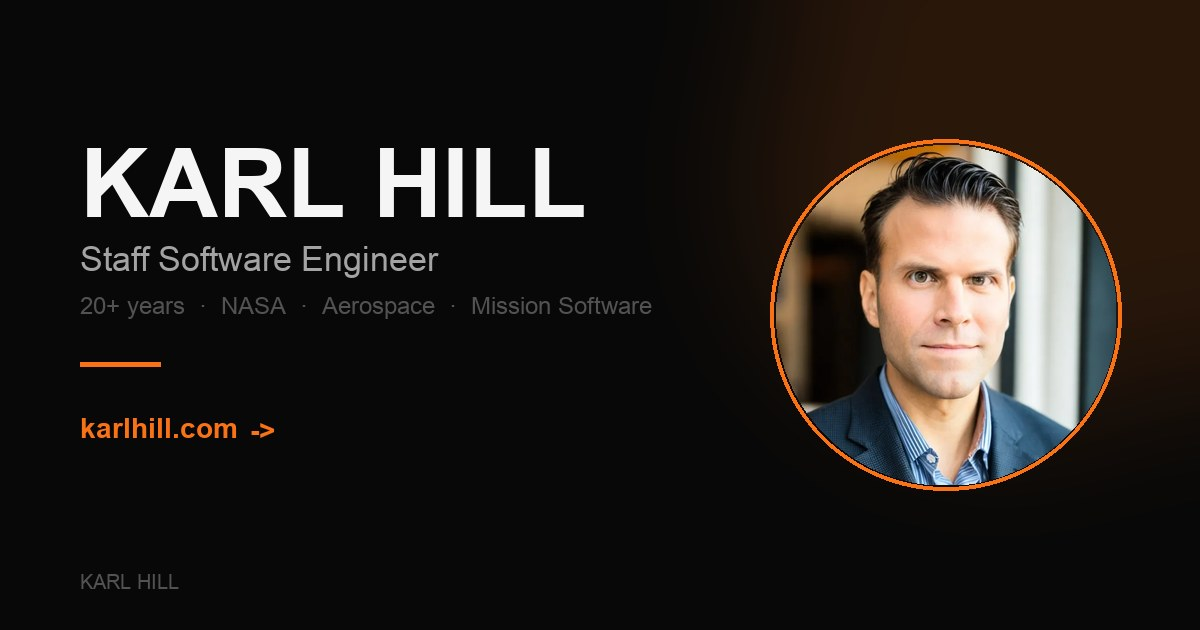
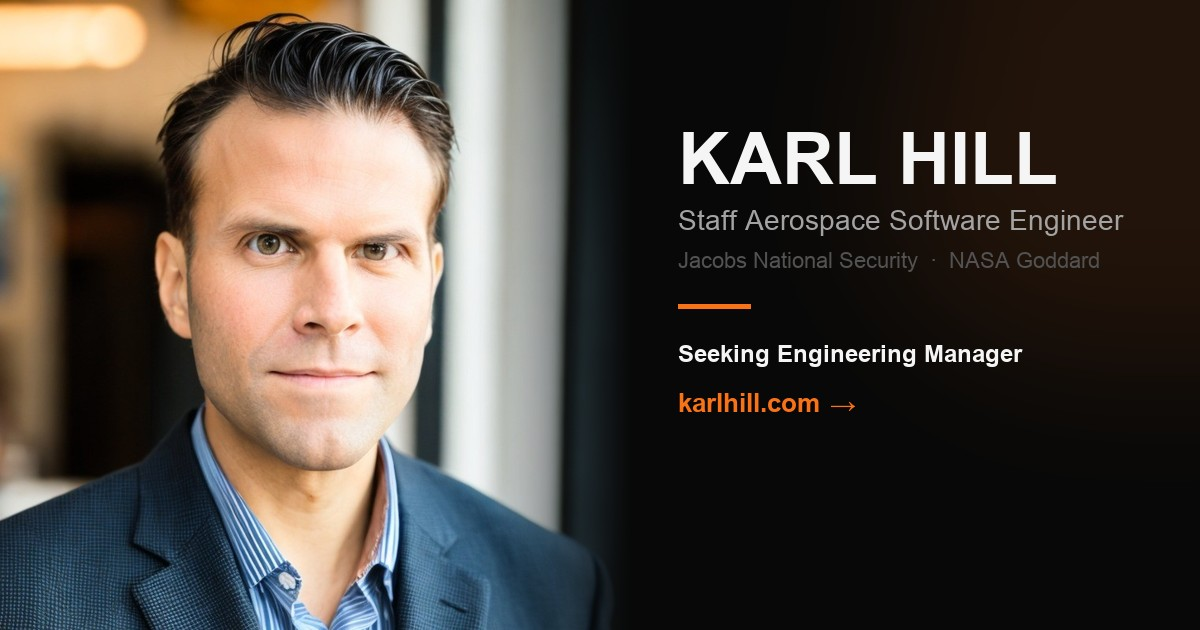
Update site content and image generation for clarity and SEO optimization
- Revised README.md to enhance clarity on name disambiguation and configuration details.
- Updated SEO configuration in `seo.php` to improve title and description for better search visibility.
- Enhanced image generation script to optimize OG images with improved cropping and layout.
- Updated tests to reflect changes in SEO content and ensure proper functionality.

diff --git a/scripts/generate-og-images.py b/scripts/generate-og-images.py
@@ -57,52 +57,81 @@ def font(size: int, bold: bool = False) -> ImageFont.FreeTypeFont:
     )
 
 
+def cover_crop(src: Image.Image, tw: int, th: int) -> Image.Image:
+    """Scale+crop to exactly tw×th (object-fit: cover), bias slightly toward the face."""
+    w, h = src.size
+    scale = max(tw / w, th / h)
+    nw, nh = int(w * scale + 0.5), int(h * scale + 0.5)
+    resized = src.resize((nw, nh), Image.LANCZOS)
+    left = max(0, (nw - tw) // 2)
+    # Bias up so eyes stay in frame when the source is a tight headshot.
+    top = max(0, (nh - th) // 2 - th // 20)
+    top = min(top, nh - th)
+    return resized.crop((left, top, left + tw, top + th))
+
+
 def generate_home() -> Path:
-    profile_path = PUBLIC / "webp" / "profile.webp"
+    """Homepage OG card optimized for Google’s square SERP thumbnail.
+
+    Layout: full-bleed portrait on the left 630×630 (what Google crops),
+    hire copy on the right. The old design put a small circle on the right
+    of a black field — center/right crops showed a letter fragment and a
+    tiny face.
+    """
+    jpg = PUBLIC / "profile.jpg"
+    webp = PUBLIC / "webp" / "profile.webp"
+    profile_path = jpg if jpg.exists() else webp
     out_path = PUBLIC / "og-home.jpg"
 
+    face_w = H  # 630 — square SERP thumb is the left panel
+    text_x = face_w + 48
+
     img = Image.new("RGB", (W, H), BG)
+    face = cover_crop(Image.open(profile_path).convert("RGB"), face_w, H)
+    img.paste(face, (0, 0))
+
+    # Soft seam: photo → dark panel so LinkedIn/Twitter still read as one card.
+    seam = Image.new("RGBA", (W, H), (0, 0, 0, 0))
+    sdraw = ImageDraw.Draw(seam)
+    blend = 160
+    for i in range(blend):
+        alpha = int(255 * (i / blend) ** 1.35)
+        x = face_w - blend + i
+        sdraw.line([(x, 0), (x, H)], fill=(*BG, alpha))
+    sdraw.rectangle((face_w, 0, W, H), fill=(*BG, 255))
+    img = Image.alpha_composite(img.convert("RGBA"), seam).convert("RGB")
     draw = ImageDraw.Draw(img)
 
+    # Quiet brand glow behind the copy (not over the face).
     glow = Image.new("RGBA", (W, H), (0, 0, 0, 0))
     gdraw = ImageDraw.Draw(glow)
-    gdraw.ellipse((700, -120, 1300, 480), fill=(*ORANGE, 35))
-    glow = glow.filter(ImageFilter.GaussianBlur(80))
-    img.paste(glow, (0, 0), glow)
+    gdraw.ellipse((820, -80, 1380, 420), fill=(*ORANGE, 28))
+    glow = glow.filter(ImageFilter.GaussianBlur(90))
+    img = Image.alpha_composite(img.convert("RGBA"), glow).convert("RGB")
+    draw = ImageDraw.Draw(img)
 
-    f_title = font(96, bold=True)
-    f_sub = font(34)
-    f_meta = font(24)
-    f_cta = font(28, bold=True)
-    f_site = font(20)
+    f_name = font(72, bold=True)
+    f_role = font(28)
+    f_meta = font(22)
+    f_ask = font(24, bold=True)
+    f_cta = font(26, bold=True)
 
-    size = 340
-    profile = Image.open(profile_path).convert("RGBA").resize((size, size), Image.LANCZOS)
-    mask = Image.new("L", (size, size), 0)
-    ImageDraw.Draw(mask).ellipse((0, 0, size, size), fill=255)
-    profile.putalpha(mask)
-
-    ring = Image.new("RGBA", (size + 12, size + 12), (0, 0, 0, 0))
-    rd = ImageDraw.Draw(ring)
-    rd.ellipse((0, 0, size + 11, size + 11), outline=ORANGE + (255,), width=4)
-    ring.paste(profile, (6, 6), profile)
-    img.paste(ring, (W - size - 90, (H - size - 12) // 2), ring)
-
-    x, y = 80, 130
-    draw.text((x, y), "KARL HILL", fill=WHITE, font=f_title)
-    y += 110
-    draw.text((x, y), "Staff Software Engineer", fill=GRAY, font=f_sub)
-    y += 52
-    draw.text((x, y), "20+ years  ·  NASA  ·  Aerospace  ·  Mission Software", fill=DARK_GRAY, font=f_meta)
-    y += 70
-    draw.rectangle((x, y, x + 80, y + 4), fill=ORANGE)
-    y += 50
+    x, y = text_x, 118
+    draw.text((x, y), "KARL HILL", fill=WHITE, font=f_name)
+    y += 86
+    draw.text((x, y), "Staff Aerospace Software Engineer", fill=GRAY, font=f_role)
+    y += 44
+    draw.text((x, y), "Jacobs National Security  ·  NASA Goddard", fill=DARK_GRAY, font=f_meta)
+    y += 56
+    draw.rectangle((x, y, x + 72, y + 4), fill=ORANGE)
+    y += 36
+    draw.text((x, y), "Seeking Engineering Manager", fill=WHITE, font=f_ask)
+    y += 48
     draw.text((x, y), "karlhill.com", fill=ORANGE, font=f_cta)
     tw = draw.textlength("karlhill.com", font=f_cta)
-    draw.text((x + tw + 12, y + 2), "->", fill=ORANGE, font=f_cta)
-    draw.text((x, H - 60), "KARL HILL", fill=DARK_GRAY, font=f_site)
+    draw.text((x + tw + 10, y + 1), "→", fill=ORANGE, font=f_cta)
 
-    img.save(out_path, "JPEG", quality=88, optimize=True)
+    img.save(out_path, "JPEG", quality=90, optimize=True)
     return out_path
 
 

diff --git a/config/site/seo.php b/config/site/seo.php
@@ -2,9 +2,10 @@
 
 return [
     'home' => [
-        'title' => 'Karl Hill — Staff Aerospace Software Engineer · NASA · Jacobs',
-        'description' => 'Karl M. Hill — Staff Aerospace Software Engineer at Jacobs National Security in Washington, DC; formerly NASA Goddard. Seeking an Engineering Manager role building on team execution, engineer development, and cross-team delivery. Not the novelist or musician of the same name.',
-        'og_description' => 'Staff Aerospace Software Engineer @ Jacobs National Security · ex-NASA Goddard · Washington, DC. Seeking Engineering Manager — formal people management as the next expansion of scope.',
+        // Keep under ~55–60 chars so Jacobs survives Google’s title truncation.
+        'title' => 'Karl Hill — Staff Aerospace Software Engineer · Jacobs',
+        'description' => 'Staff Aerospace Software Engineer at Jacobs National Security in Washington, DC · formerly NASA Goddard. Seeking an Engineering Manager role building on team execution and engineer development.',
+        'og_description' => 'Staff Aerospace Software Engineer @ Jacobs National Security · ex-NASA Goddard · Washington, DC. Seeking Engineering Manager.',
     ],
     'blog_index' => [
         'title' => 'Writing — Karl Hill',

diff --git a/tests/Feature/HomeStructuredDataTest.php b/tests/Feature/HomeStructuredDataTest.php
@@ -42,8 +42,8 @@ it('homepage html includes preferred-name title and json-ld', function () {
     $response = $this->get('/');
 
     $response->assertOk();
-    $response->assertSee('<title>Karl Hill — Staff Aerospace Software Engineer · NASA · Jacobs</title>', escape: false);
-    $response->assertSee('Karl M. Hill — Staff Aerospace Software Engineer at Jacobs', escape: false);
+    $response->assertSee('<title>Karl Hill — Staff Aerospace Software Engineer · Jacobs</title>', escape: false);
+    $response->assertSee('Staff Aerospace Software Engineer at Jacobs National Security', escape: false);
     $response->assertSee('"@type": "WebSite"', escape: false);
     $response->assertSee('"@type": "Person"', escape: false);
     $response->assertSee('"@type": "ProfilePage"', escape: false);

diff --git a/app/Console/Commands/GenerateOgImages.php b/app/Console/Commands/GenerateOgImages.php
@@ -121,6 +121,13 @@ class GenerateOgImages extends Command
      */
     protected function runProcess(array $command): void
     {
+        if (($command[0] ?? null) === 'python3') {
+            $venvPython = base_path('.venv/bin/python3');
+            if (is_file($venvPython)) {
+                $command[0] = $venvPython;
+            }
+        }
+
         $process = new Process($command, base_path());
         $process->setTimeout(120);
         $process->run(function (string $type, string $buffer): void {

diff --git a/README.md b/README.md
@@ -72,16 +72,9 @@ Domain copy lives in `config/site/*.php` (hero, person, experience, projects, no
 
 Hire bio is canonical in `config/site/person.php` (`bio`). The hire ask is `person.availability` — used by the homepage hero and kit “Open to” (EM transition from current Staff leadership scope). Secondary IC fit is `availability_note` on `/kit` only. Do not restate the ask on About, kit highlights, or `/now` focus cards.
 
-### Search Console and name disambiguation
+### Name disambiguation
 
-Google associates bare “Karl Hill” with a Scottish novelist (and Discogs/Wikipedia know a musician). This site’s Person JSON-LD already sets `sameAs` (LinkedIn, GitHub, ORCID, Scholar, Discogs, Wikipedia musician) plus `disambiguatingDescription`. Finish entity ownership outside the repo:
-
-1. [Search Console](https://search.google.com/search-console) → Domain property `karlhill.com` (DNS TXT) **or** URL-prefix + `GOOGLE_SITE_VERIFICATION` in `.env` (meta tag is already wired in `layouts/site.blade.php`).
-2. Inspect `https://karlhill.com/` → **Test live URL** → **Request indexing**. Also request `/work/jacobs-mission-software` and `/kit`.
-3. Set **Website** to `https://karlhill.com` on LinkedIn, GitHub, ORCID, and Google Scholar (same URL everywhere — that is what consolidates the Knowledge Panel).
-4. Optionally expand the [Wikipedia dab](https://en.wikipedia.org/wiki/Karl_Hill_(disambiguation)) line so it names aerospace/software (and links the site) if notability allows.
-
-Copy/paste check: LinkedIn headline lives in `config/site/person.php` (`linkedin_headline`).
+Google associates bare “Karl Hill” with a Scottish novelist (and Discogs/Wikipedia know a musician). Person JSON-LD sets `sameAs` (LinkedIn, GitHub, ORCID, Scholar, Discogs, Wikipedia musician) plus `disambiguatingDescription`. LinkedIn headline copy lives in `config/site/person.php` (`linkedin_headline`). Optional URL-prefix verification: `GOOGLE_SITE_VERIFICATION` in `.env` (meta tag in `layouts/site.blade.php`).
 
 ### Shared catalog
 
